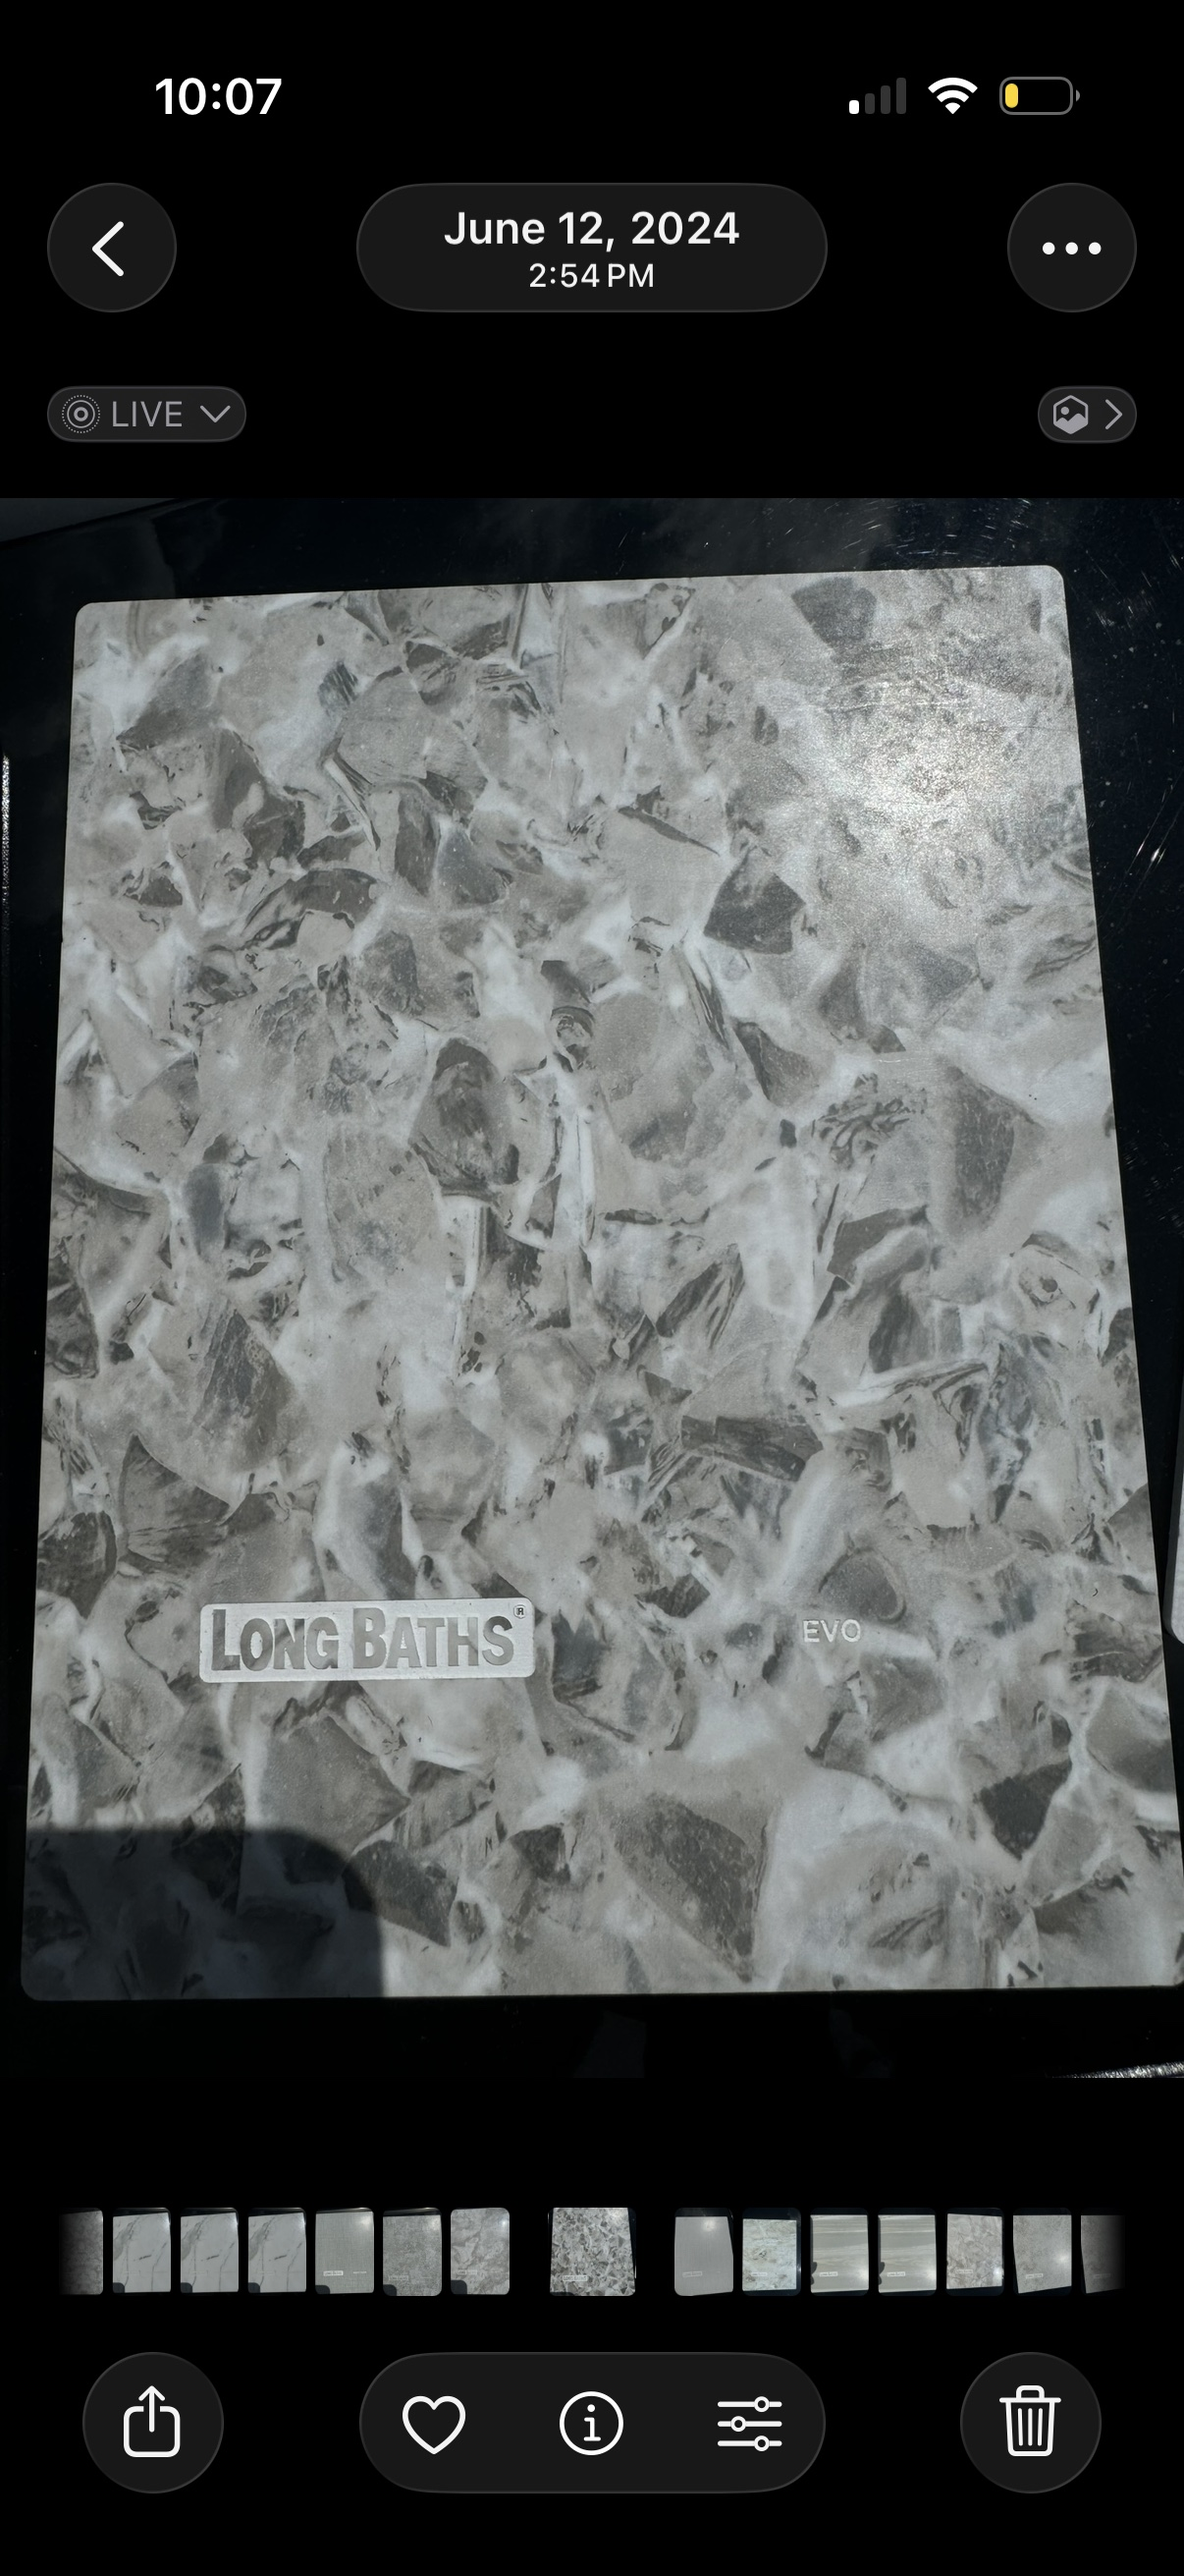
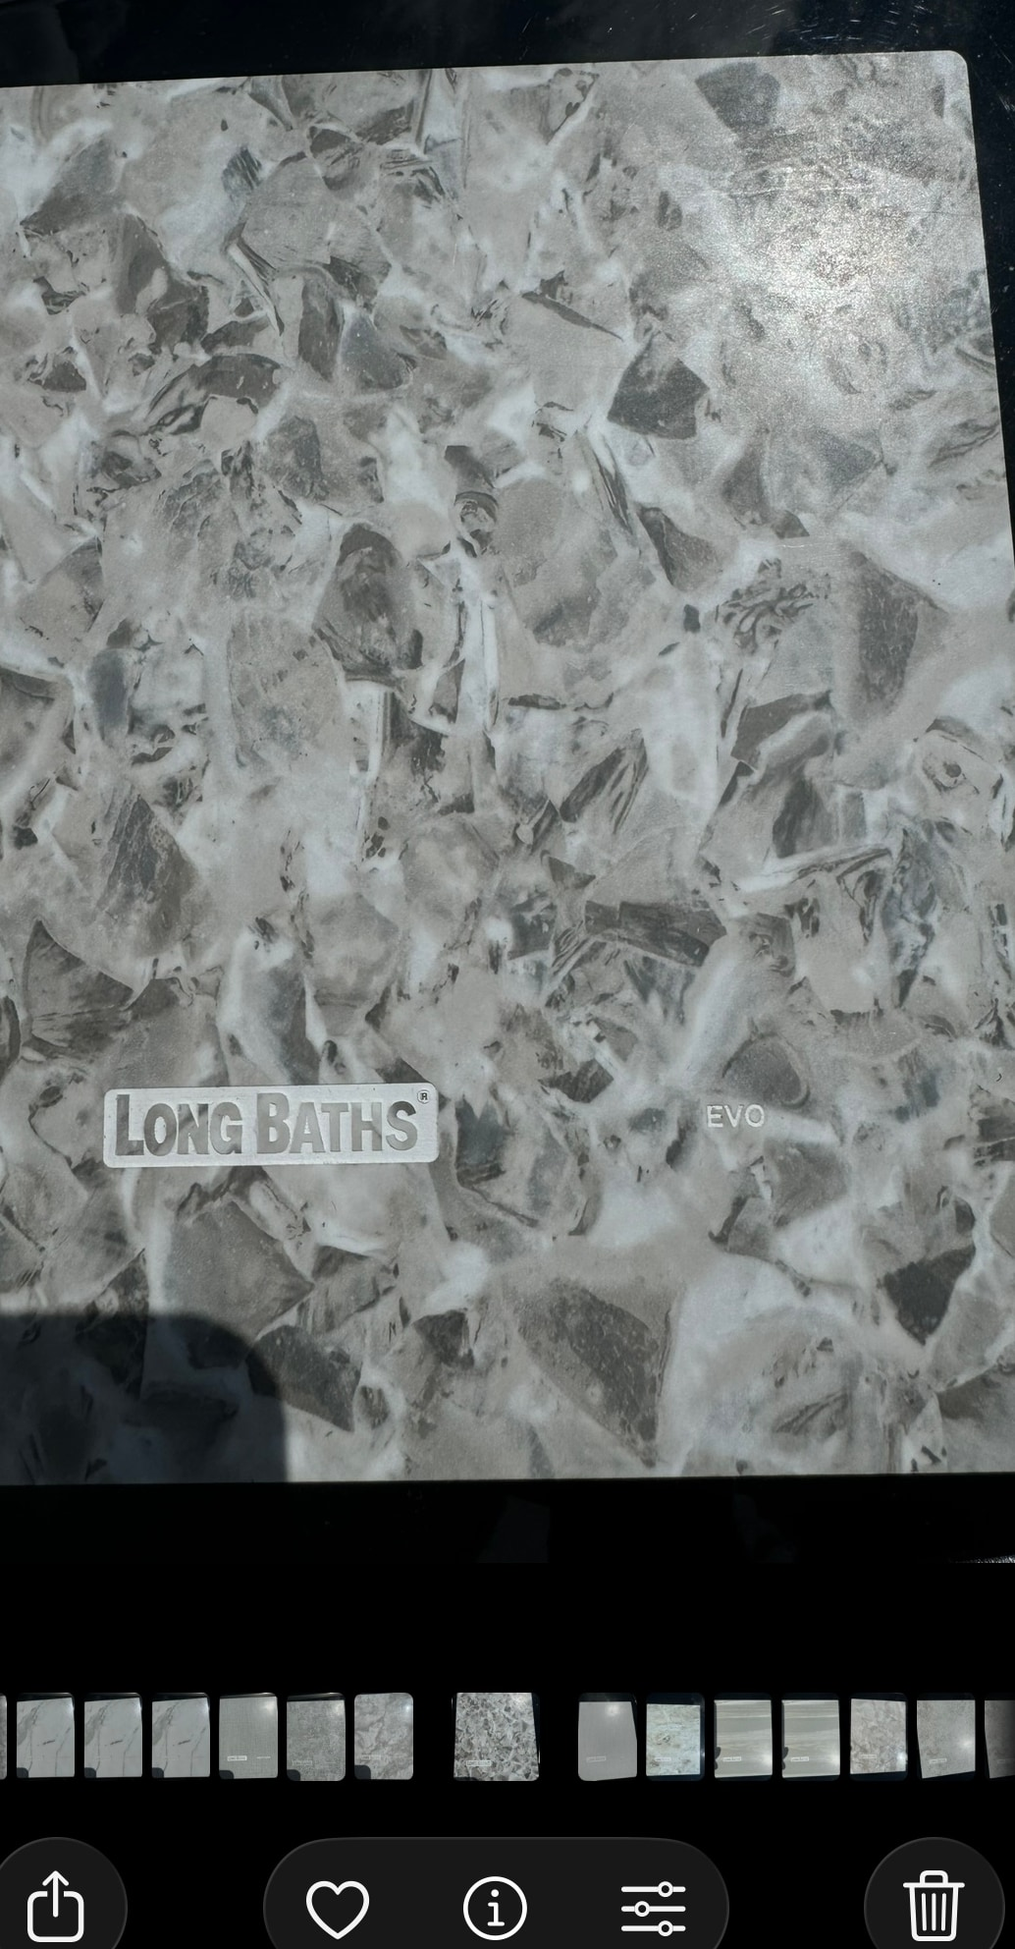
feat(visualizer): crop catalog material refs to panel-only (keep source backups)
Add detectMaterialCropBox + batch script to remove concrete, margins, and
stickers from catalog JPGs used as KIE Image 2. Originals preserved under
each line's source/ folder. Active paths unchanged for readCatalogMaterialBytes.

diff --git a/src/lib/visualizer/catalog-material-crop.ts b/src/lib/visualizer/catalog-material-crop.ts
@@ -1,0 +1,174 @@
+import sharp from "sharp";
+
+export type CropBox = { left: number; top: number; width: number; height: number };
+
+const ANALYSIS_WIDTH = 720;
+/** Concrete / backdrop usually appears on the right and bottom of outdoor slab photos. */
+const SIDE_STRIP_FRAC = 0.08;
+const COLOR_DISTANCE_THRESHOLD = 26;
+const INSET_FRAC = 0.015;
+const MIN_MATERIAL_FRAC = 0.35;
+const MIN_OUTPUT_EDGE = 256;
+
+function rgbDistance(
+  r1: number,
+  g1: number,
+  b1: number,
+  r2: number,
+  g2: number,
+  b2: number,
+): number {
+  return Math.sqrt((r1 - r2) ** 2 + (g1 - g2) ** 2 + (b1 - b2) ** 2);
+}
+
+function medianChannel(samples: number[][], ch: number): number {
+  const sorted = samples.map((s) => s[ch]).sort((a, b) => a - b);
+  return sorted[Math.floor(sorted.length / 2)] ?? 0;
+}
+
+/**
+ * Bounding box for the wall-panel sample vs outdoor concrete / backdrop.
+ * Uses border pixel color as background reference (concrete edges).
+ */
+export async function detectMaterialCropBox(imagePath: string): Promise<CropBox> {
+  const meta = await sharp(imagePath).metadata();
+  const origW = meta.width ?? 0;
+  const origH = meta.height ?? 0;
+  if (!origW || !origH) throw new Error(`Invalid image dimensions: ${imagePath}`);
+
+  const scale = ANALYSIS_WIDTH / origW;
+  const analysisH = Math.max(1, Math.round(origH * scale));
+
+  const { data, info } = await sharp(imagePath)
+    .resize(ANALYSIS_WIDTH, analysisH, { fit: "fill" })
+    .removeAlpha()
+    .raw()
+    .toBuffer({ resolveWithObject: true });
+
+  const { width, height, channels } = info;
+  const rightStrip = Math.max(2, Math.floor(width * SIDE_STRIP_FRAC));
+  const bottomStrip = Math.max(2, Math.floor(height * SIDE_STRIP_FRAC));
+  const backdropSamples: number[][] = [];
+
+  for (let y = 0; y < height; y++) {
+    for (let x = 0; x < width; x++) {
+      const i = (y * width + x) * channels;
+      const rgb = [data[i], data[i + 1], data[i + 2]];
+      const onRight = x >= width - rightStrip;
+      const onBottom = y >= height - bottomStrip;
+      if (onRight || onBottom) backdropSamples.push(rgb);
+    }
+  }
+
+  const cornerFrac = 0.12;
+  const cornerW = Math.max(4, Math.floor(width * cornerFrac));
+  const cornerH = Math.max(4, Math.floor(height * cornerFrac));
+  const cornerSamples: number[][] = [];
+  for (let y = height - cornerH; y < height; y++) {
+    for (let x = width - cornerW; x < width; x++) {
+      const i = (y * width + x) * channels;
+      cornerSamples.push([data[i], data[i + 1], data[i + 2]]);
+    }
+  }
+
+  const bgR = medianChannel(cornerSamples.length ? cornerSamples : backdropSamples, 0);
+  const bgG = medianChannel(cornerSamples.length ? cornerSamples : backdropSamples, 1);
+  const bgB = medianChannel(cornerSamples.length ? cornerSamples : backdropSamples, 2);
+
+  const isBackdrop = (x: number, y: number) => {
+    const i = (y * width + x) * channels;
+    return rgbDistance(data[i], data[i + 1], data[i + 2], bgR, bgG, bgB) <= COLOR_DISTANCE_THRESHOLD;
+  };
+
+  const columnBackdropRatio = (x: number) => {
+    let backdrop = 0;
+    for (let y = 0; y < height; y++) {
+      if (isBackdrop(x, y)) backdrop++;
+    }
+    return backdrop / height;
+  };
+
+  const rowBackdropRatio = (y: number) => {
+    let backdrop = 0;
+    for (let x = 0; x < width; x++) {
+      if (isBackdrop(x, y)) backdrop++;
+    }
+    return backdrop / width;
+  };
+
+  const BACKDROP_COL = 0.52;
+  const MATERIAL_COL = 0.35;
+
+  let minX = 0;
+  for (let x = 0; x < width; x++) {
+    if (columnBackdropRatio(x) < MATERIAL_COL) {
+      minX = x;
+      break;
+    }
+  }
+
+  let maxX = width - 1;
+  for (let x = width - 1; x >= 0; x--) {
+    if (columnBackdropRatio(x) < BACKDROP_COL) {
+      maxX = x;
+      break;
+    }
+  }
+
+  let minY = 0;
+  for (let y = 0; y < height; y++) {
+    if (rowBackdropRatio(y) < MATERIAL_COL) {
+      minY = y;
+      break;
+    }
+  }
+
+  let maxY = height - 1;
+  for (let y = height - 1; y >= 0; y--) {
+    if (rowBackdropRatio(y) < BACKDROP_COL) {
+      maxY = y;
+      break;
+    }
+  }
+
+  const inset = Math.floor(Math.min(width, height) * INSET_FRAC);
+  minX = Math.min(width - 1, minX + inset);
+  minY = Math.min(height - 1, minY + inset);
+  maxX = Math.max(0, maxX - inset);
+  maxY = Math.max(0, maxY - inset);
+
+  const materialPixels = (maxX - minX + 1) * (maxY - minY + 1);
+  const frac = materialPixels / (width * height);
+  if (frac < MIN_MATERIAL_FRAC || maxX <= minX || maxY <= minY) {
+    const insetFallback = Math.floor(Math.min(origW, origH) * 0.06);
+    return {
+      left: insetFallback,
+      top: insetFallback,
+      width: origW - insetFallback * 2,
+      height: origH - insetFallback * 2,
+    };
+  }
+
+  const sx = origW / width;
+  const sy = origH / height;
+
+  let left = Math.max(0, Math.floor(minX * sx));
+  let top = Math.max(0, Math.floor(minY * sy));
+  let cropW = Math.min(origW - left, Math.ceil((maxX - minX + 1) * sx));
+  let cropH = Math.min(origH - top, Math.ceil((maxY - minY + 1) * sy));
+
+  cropW = Math.max(MIN_OUTPUT_EDGE, Math.min(cropW, origW - left));
+  cropH = Math.max(MIN_OUTPUT_EDGE, Math.min(cropH, origH - top));
+
+  return { left, top, width: cropW, height: cropH };
+}
+
+export async function cropMaterialImageToBuffer(
+  imagePath: string,
+  box: CropBox,
+): Promise<Buffer> {
+  return sharp(imagePath)
+    .extract(box)
+    .jpeg({ quality: 92, mozjpeg: true })
+    .toBuffer();
+}

diff --git a/scripts/crop-visualizer-catalog-materials.ts b/scripts/crop-visualizer-catalog-materials.ts
@@ -1,0 +1,113 @@
+/**
+ * Crop catalog wall-panel reference photos to the material surface only.
+ *
+ * Backs up originals to `public/visualizer/materials/<dir>/source/<slug>.jpg`
+ * and overwrites the catalog JPG used by KIE generation (`<slug>.jpg`).
+ *
+ * Usage:
+ *   npx tsx scripts/crop-visualizer-catalog-materials.ts --dry-run
+ *   npx tsx scripts/crop-visualizer-catalog-materials.ts --apply
+ *   npx tsx scripts/crop-visualizer-catalog-materials.ts --apply --only tundra-grey
+ */
+
+import { mkdir, readdir, access, copyFile, writeFile } from "node:fs/promises";
+import path from "node:path";
+import sharp from "sharp";
+import {
+  cropMaterialImageToBuffer,
+  detectMaterialCropBox,
+} from "../src/lib/visualizer/catalog-material-crop";
+
+const MATERIALS_ROOT = path.join(process.cwd(), "public/visualizer/materials");
+
+/** Product-line folders with per-slug catalog JPGs (not pattern-references). */
+const CATALOG_DIRS = [
+  "long-baths",
+  "sam-mueller-luxura",
+  "sam-mueller-monterey",
+  "sam-mueller-pioneer-plus",
+] as const;
+
+async function fileExists(p: string): Promise<boolean> {
+  try {
+    await access(p);
+    return true;
+  } catch {
+    return false;
+  }
+}
+
+async function listCatalogJpgs(): Promise<Array<{ dir: string; slug: string; path: string }>> {
+  const out: Array<{ dir: string; slug: string; path: string }> = [];
+  for (const dir of CATALOG_DIRS) {
+    const fullDir = path.join(MATERIALS_ROOT, dir);
+    if (!(await fileExists(fullDir))) continue;
+    const names = await readdir(fullDir);
+    for (const name of names) {
+      if (!name.endsWith(".jpg")) continue;
+      const slug = name.replace(/\.jpg$/i, "");
+      out.push({ dir, slug, path: path.join(fullDir, name) });
+    }
+  }
+  return out;
+}
+
+async function main() {
+  const args = process.argv.slice(2);
+  const dryRun = !args.includes("--apply");
+  const onlySlug = args.includes("--only")
+    ? args[args.indexOf("--only") + 1]?.trim()
+    : null;
+
+  if (dryRun) {
+    console.log("DRY RUN — pass --apply to write cropped JPGs and source backups.\n");
+  }
+
+  const files = (await listCatalogJpgs()).filter((f) => !onlySlug || f.slug === onlySlug);
+
+  let ok = 0;
+  let skip = 0;
+
+  for (const file of files) {
+    const meta = await sharp(file.path).metadata();
+    const origW = meta.width ?? 0;
+    const origH = meta.height ?? 0;
+    if (!origW || !origH) {
+      console.warn(`SKIP invalid: ${file.path}`);
+      skip++;
+      continue;
+    }
+
+    const box = await detectMaterialCropBox(file.path);
+    const removed = 1 - (box.width * box.height) / Math.max(1, origW * origH);
+
+    console.log(
+      `${file.dir}/${file.slug}.jpg  ${origW}x${origH} → ${box.width}x${box.height} @ (${box.left},${box.top})  ~${(removed * 100).toFixed(1)}% trimmed`,
+    );
+
+    if (dryRun) {
+      ok++;
+      continue;
+    }
+
+    const backup = path.join(MATERIALS_ROOT, file.dir, "source", `${file.slug}.jpg`);
+    await mkdir(path.dirname(backup), { recursive: true });
+    if (!(await fileExists(backup))) {
+      await copyFile(file.path, backup);
+    }
+
+    const cropped = await cropMaterialImageToBuffer(file.path, box);
+    await writeFile(file.path, cropped);
+    ok++;
+  }
+
+  console.log(`\nDone: ${ok} processed, ${skip} skipped.`);
+  if (dryRun) {
+    console.log("Re-run with --apply to backup originals under .../source/ and overwrite catalog JPGs.");
+  }
+}
+
+main().catch((err) => {
+  console.error(err);
+  process.exit(1);
+});

diff --git a/scripts/test-visualizer-catalog-material-crop.ts b/scripts/test-visualizer-catalog-material-crop.ts
@@ -1,0 +1,33 @@
+import assert from "node:assert/strict";
+import { access } from "node:fs/promises";
+import path from "node:path";
+import sharp from "sharp";
+import { detectMaterialCropBox } from "../src/lib/visualizer/catalog-material-crop";
+
+async function main() {
+  const dir = path.join(process.cwd(), "public/visualizer/materials/sam-mueller-pioneer-plus");
+  const source = path.join(dir, "source/tundra-grey.jpg");
+  let tundra = path.join(dir, "tundra-grey.jpg");
+  try {
+    await access(source);
+    tundra = source;
+  } catch {
+    /* use active catalog file */
+  }
+
+  const box = await detectMaterialCropBox(tundra);
+  assert.ok(box.width > 200 && box.height > 200, "crop has reasonable size");
+  assert.ok(box.left >= 0 && box.top >= 0, "crop origin non-negative");
+
+  const meta = await sharp(tundra).metadata();
+  const origArea = (meta.width ?? 1) * (meta.height ?? 1);
+  const cropArea = box.width * box.height;
+  assert.ok(cropArea < origArea * 0.91, "expected meaningful border removed for tundra-grey");
+
+  console.log("test-visualizer-catalog-material-crop: PASS", box);
+}
+
+main().catch((e) => {
+  console.error(e);
+  process.exit(1);
+});

diff --git a/docs/VISUALIZER-CATALOG-MATERIAL-CROP.md b/docs/VISUALIZER-CATALOG-MATERIAL-CROP.md
@@ -1,0 +1,36 @@
+# Visualizer catalog material crop
+
+Outdoor / slab product photos often include concrete, margins, and manufacturer stickers. KIE generation uses these JPGs as **Image 2**; backdrop gray can bias panel color (e.g. toward concrete).
+
+## Layout
+
+| Path | Role |
+|------|------|
+| `public/visualizer/materials/<line>/<slug>.jpg` | **Active** reference sent to generation (cropped) |
+| `public/visualizer/materials/<line>/source/<slug>.jpg` | **Original** full photo (first-run backup only) |
+
+`readCatalogMaterialBytes()` reads the active `<slug>.jpg` — no code change required after crop.
+
+## Commands
+
+```bash
+# Preview bounding boxes
+npx tsx scripts/crop-visualizer-catalog-materials.ts --dry-run
+
+# Write crops + create source/ backups
+npx tsx scripts/crop-visualizer-catalog-materials.ts --apply
+
+# Single SKU
+npx tsx scripts/crop-visualizer-catalog-materials.ts --apply --only tundra-grey
+
+npx tsx scripts/test-visualizer-catalog-material-crop.ts
+```
+
+Detection lives in `src/lib/visualizer/catalog-material-crop.ts` (corner concrete sample + column/row backdrop scan).
+
+To restore one material from backup:
+
+```bash
+cp public/visualizer/materials/sam-mueller-pioneer-plus/source/tundra-grey.jpg \
+   public/visualizer/materials/sam-mueller-pioneer-plus/tundra-grey.jpg
+```
